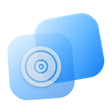
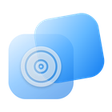
docs: level the Navidrome tile base

diff --git a/docs/proposals/navidrome-icon/README.md b/docs/proposals/navidrome-icon/README.md
@@ -2,7 +2,7 @@
 
 The Navidrome tile in the Streaming menu reuses the Streaming icon.
 
-This proposal gives it a dedicated tile in the same family as the Music section icons: two gradient rounded squares, a translucent front, a soft shadow, and a white glyph at 60% opacity. The glyph is a vinyl record after Navidrome's mark, on Navidrome blue.
+This proposal gives it a dedicated tile in the same family as the Music section icons: two gradient rounded squares, a translucent front, a soft shadow, and a white glyph at 60% opacity. The front square sits level, like the Radio tile. The glyph is a vinyl record after Navidrome's mark, on Navidrome blue.
 
 - `navidrome-140.png`: source size, matching the section tiles.
 - `navidrome-112.png`: size drawn on the 480x800 panel.
